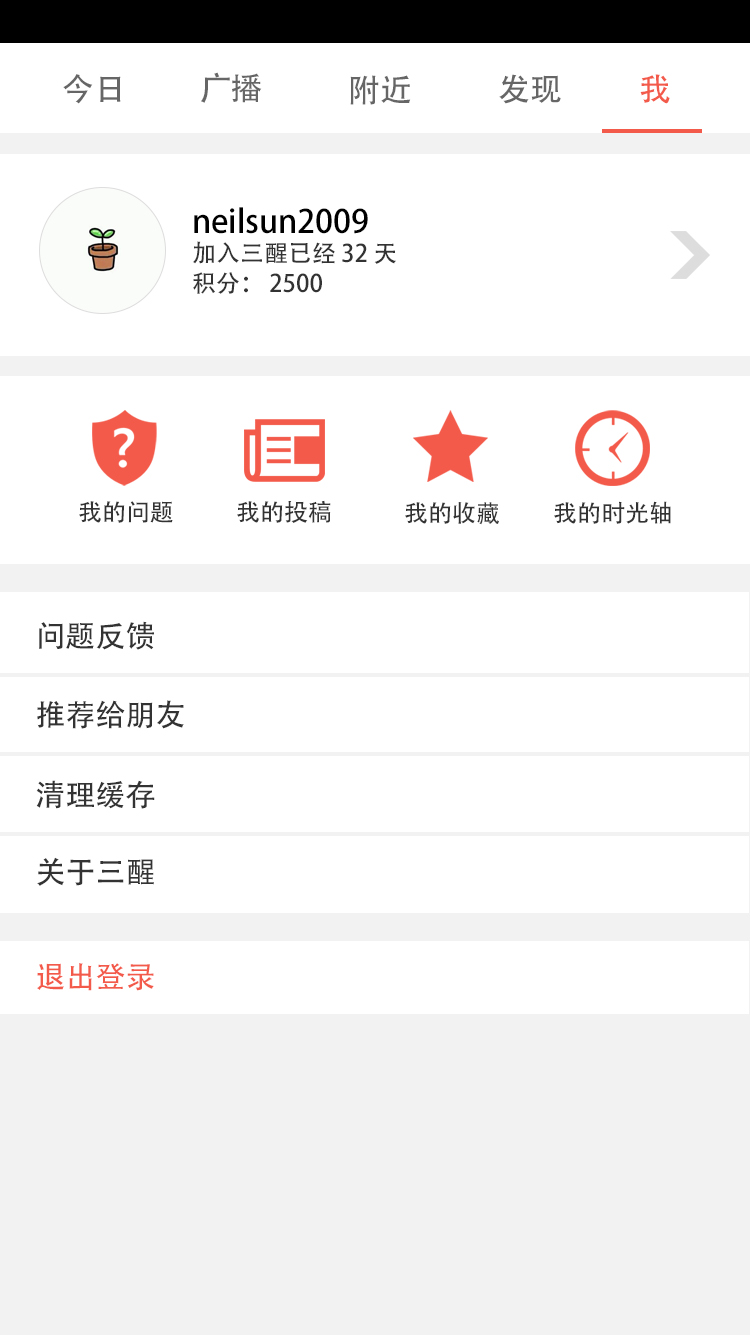
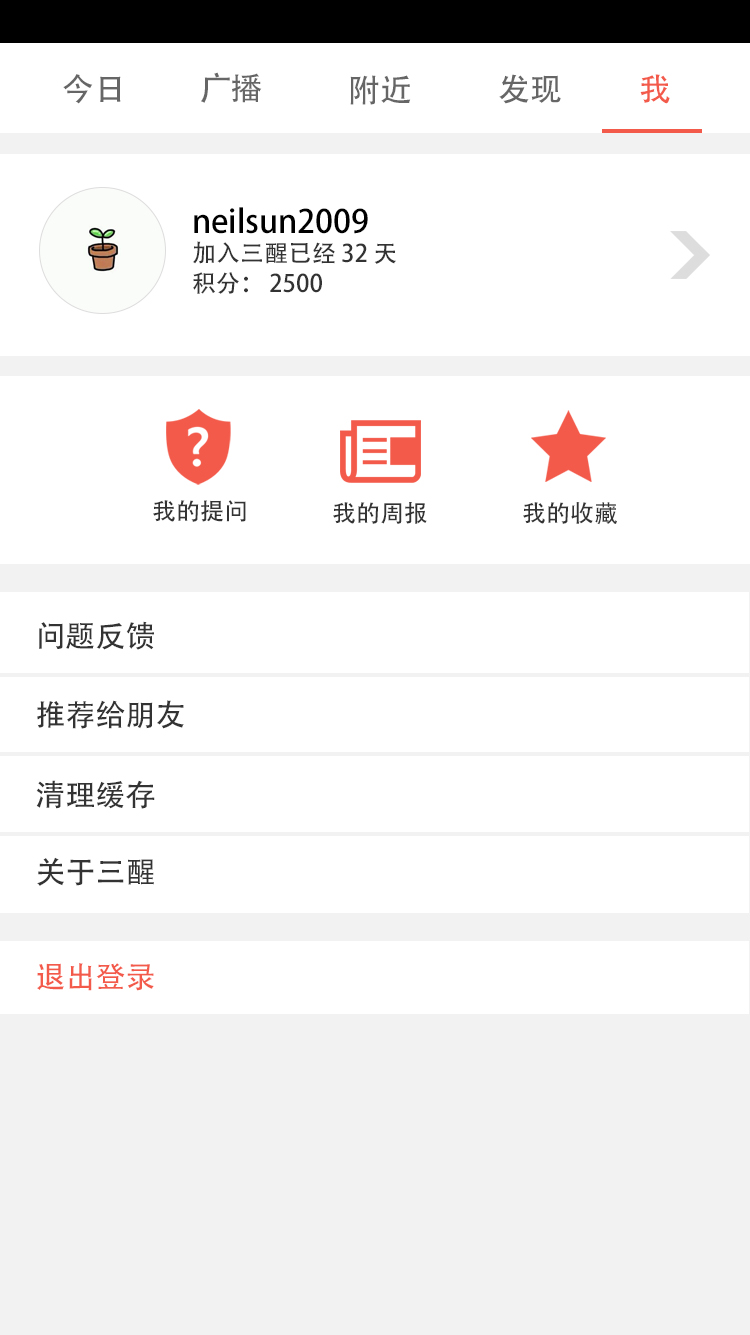
finish me page & modify in design manuel

Changed region(s): [[0.092, 0.3071, 0.6747, 0.3993], [0.7053, 0.3071, 0.8893, 0.3993]]

diff --git a/app/src/main/java/com/note8/sanxing/MainActivity.java b/app/src/main/java/com/note8/sanxing/MainActivity.java
@@ -1,5 +1,6 @@
 package com.note8.sanxing;
 
+import android.content.Intent;
 import android.support.design.widget.TabLayout;
 import android.support.design.widget.FloatingActionButton;
 import android.support.design.widget.Snackbar;
@@ -18,6 +19,7 @@ import android.view.View;
 import android.view.ViewGroup;
 
 import android.widget.Button;
+import android.widget.ImageView;
 import android.widget.TextView;
 import android.widget.Toast;
 
@@ -42,6 +44,8 @@ public class MainActivity extends AppCompatActivity {
      */
     private ViewPager mViewPager;
 
+    private ImageView mainUserImg;
+
     @Override
     protected void onCreate(Bundle savedInstanceState) {
         super.onCreate(savedInstanceState);
@@ -60,6 +64,14 @@ public class MainActivity extends AppCompatActivity {
         TabLayout tabLayout = (TabLayout) findViewById(R.id.tabs);
         tabLayout.setupWithViewPager(mViewPager);
 
+        mainUserImg = (ImageView) findViewById(R.id.main_user_img);
+        mainUserImg.setOnClickListener(new View.OnClickListener() {
+            @Override
+            public void onClick(View view) {
+                Intent intent = new Intent(MainActivity.this, MeActivity.class);
+                startActivity(intent);
+            }
+        });
 
     }
 

diff --git a/design.md b/design.md
@@ -9,6 +9,19 @@
 * 边距之类的基本就是16dp，8dp这样，得体即可
 * 大小的话，dp和px在这套设计图里的换算关系是 1dp = 2px
 
+## 顶栏Action Bar
+* 可以参考activity_me.xml
+* 样式定义为
+    android:layout_width="match_parent"
+    android:layout_height="@dimen/action_bar_height"
+    android:background="@color/colorActionBarBg"
+    android:text="标题名称"
+    android:paddingLeft="@dimen/action_bar_padding"
+    android:textSize="@dimen/action_bar_text_size"
+    android:gravity="center_vertical"
+    android:textColor="@color/colorActionBarText"
+    android:elevation="3dp"
+
 
 ## 今日页面
 > 类似于时间轴，在首页上显示每天三个问题中的一个
